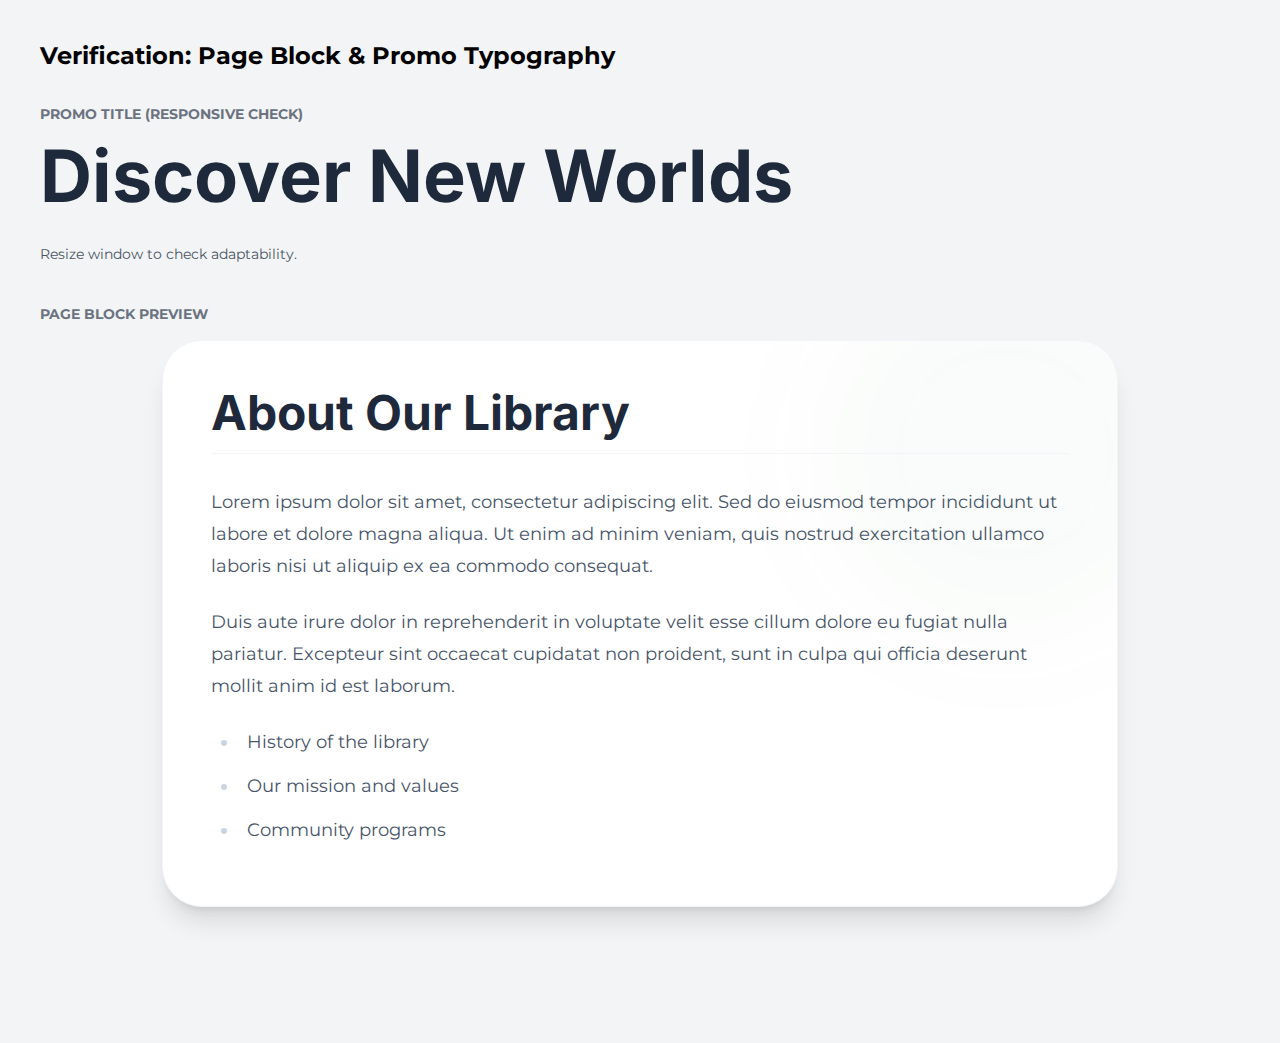
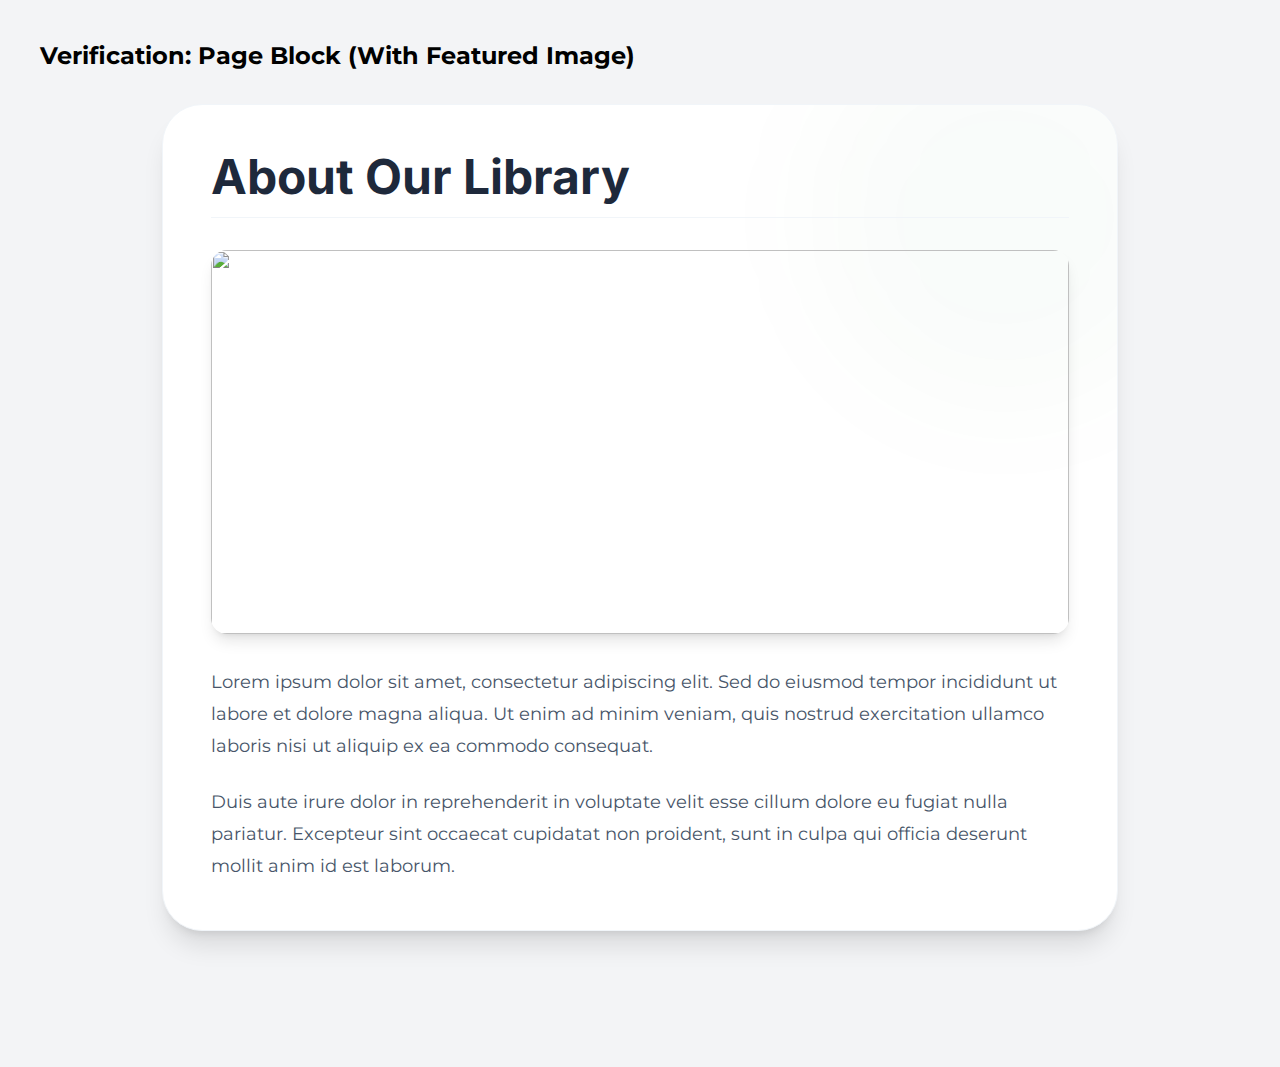
Refactor page template and add featured image support to Page Block
- Created `template-parts/content-page.php` to modularize page content display.
- Refactored `page.php` to use the new template part.
- Updated `template-parts/section-page-block.php` to include Featured Image support, ensuring visual consistency between the homepage block and the actual page view.
- Ensured consistent "AAA" tier styling (rounded corners, shadows, decorative elements) across all page-related components.

diff --git a/verification/page_block_preview.html b/verification/page_block_preview.html
@@ -3,7 +3,7 @@
 <head>
     <meta charset="UTF-8">
     <meta name="viewport" content="width=device-width, initial-scale=1.0">
-    <title>Page Block Verification</title>
+    <title>Page Block Verification (Featured Image)</title>
     <script src="https://cdn.tailwindcss.com?plugins=forms,typography"></script>
     <link href="https://fonts.googleapis.com/css2?family=Inter:wght@300;400;500;600;700;800&family=Montserrat:wght@400;700&display=swap" rel="stylesheet">
     <script>
@@ -28,20 +28,7 @@
 </head>
 <body class="bg-gray-100 p-10">
 
-    <h1 class="text-2xl mb-8 font-bold">Verification: Page Block & Promo Typography</h1>
-
-    <!-- Mock Promo Typography -->
-    <div class="mb-10">
-        <h3 class="mb-4 text-sm font-bold uppercase text-gray-500">Promo Title (Responsive Check)</h3>
-        <!-- text-4xl sm:text-5xl lg:text-7xl -->
-        <h2 class="text-4xl sm:text-5xl lg:text-7xl font-display font-bold text-slate-800 mb-8 leading-[1.1]">
-            Discover New Worlds
-        </h2>
-        <p class="text-sm text-gray-600">Resize window to check adaptability.</p>
-    </div>
-
-    <!-- Mock Page Block -->
-    <h3 class="mb-4 text-sm font-bold uppercase text-gray-500">Page Block Preview</h3>
+    <h1 class="text-2xl mb-8 font-bold">Verification: Page Block (With Featured Image)</h1>
 
     <!-- Rendered Page Block -->
     <section class="mb-24 w-full max-w-[95%] sm:max-w-[90%] xl:max-w-[85%] 2xl:max-w-[80%] mx-auto px-4 sm:px-6 lg:px-8">
@@ -50,19 +37,19 @@
              <!-- Decorative Blur -->
              <div class="absolute -top-20 -right-20 w-96 h-96 bg-primary/5 rounded-full blur-3xl opacity-50 pointer-events-none"></div>
 
-             <div class="relative z-10">
-                <h2 class="text-3xl md:text-5xl font-display font-bold text-slate-800 mb-8 border-b border-slate-100 pb-4">
+             <div class="relative z-10 flex flex-col gap-8">
+                <h2 class="text-3xl md:text-5xl font-display font-bold text-slate-800 border-b border-slate-100 pb-4">
                     About Our Library
                 </h2>
+
+                <!-- Featured Image Mock -->
+                <div class="w-full h-64 md:h-96 rounded-2xl overflow-hidden shadow-lg relative">
+                    <img src="https://images.unsplash.com/photo-1507842217153-e212234687ad?auto=format&fit=crop&w=1200&q=80" class="w-full h-full object-cover">
+                </div>
 
                 <div class="prose prose-lg prose-slate max-w-none text-slate-600">
                     <p>Lorem ipsum dolor sit amet, consectetur adipiscing elit. Sed do eiusmod tempor incididunt ut labore et dolore magna aliqua. Ut enim ad minim veniam, quis nostrud exercitation ullamco laboris nisi ut aliquip ex ea commodo consequat.</p>
                     <p>Duis aute irure dolor in reprehenderit in voluptate velit esse cillum dolore eu fugiat nulla pariatur. Excepteur sint occaecat cupidatat non proident, sunt in culpa qui officia deserunt mollit anim id est laborum.</p>
-                    <ul>
-                        <li>History of the library</li>
-                        <li>Our mission and values</li>
-                        <li>Community programs</li>
-                    </ul>
                 </div>
              </div>
         </div>

diff --git a/wp-content/themes/city-library/page.php b/wp-content/themes/city-library/page.php
@@ -6,42 +6,7 @@
         <?php
         while (have_posts()) :
             the_post();
-            ?>
-            <article id="post-<?php the_ID(); ?>" <?php post_class('bg-white dark:bg-slate-900/50 p-8 md:p-12 rounded-[2rem] shadow-xl border border-slate-100 dark:border-slate-800 relative overflow-hidden'); ?>>
-
-                <!-- Decorative Background Blur -->
-                <div class="absolute top-0 right-0 -mr-20 -mt-20 w-96 h-96 bg-primary/5 rounded-full blur-3xl pointer-events-none"></div>
-
-                <div class="flex flex-col gap-8 relative z-10">
-
-                    <header class="entry-header mb-6 text-center">
-                        <?php the_title('<h1 class="entry-title text-3xl md:text-5xl font-bold font-display mb-4 text-slate-900 dark:text-white leading-tight">', '</h1>'); ?>
-                    </header>
-
-                    <!-- Featured Image (Full Width for Pages if exists) -->
-                    <?php if (has_post_thumbnail()) : ?>
-                        <div class="w-full h-64 md:h-96 rounded-2xl overflow-hidden shadow-lg relative mb-8">
-                            <?php the_post_thumbnail('full', ['class' => 'w-full h-full object-cover']); ?>
-                        </div>
-                    <?php endif; ?>
-
-                    <!-- Content -->
-                    <div class="entry-content prose prose-slate dark:prose-invert max-w-none prose-headings:font-display prose-headings:font-bold prose-a:text-primary hover:prose-a:text-primary/80 prose-img:rounded-xl prose-img:shadow-lg mx-auto">
-                        <?php
-                        the_content();
-
-                        wp_link_pages(array(
-                            'before' => '<div class="page-links">' . esc_html__('Pages:', 'city-library'),
-                            'after'  => '</div>',
-                        ));
-                        ?>
-                    </div>
-
-                </div>
-
-            </article>
-
-        <?php
+            get_template_part('template-parts/content', 'page');
         endwhile; // End of the loop.
         ?>
     </div>

diff --git a/wp-content/themes/city-library/template-parts/content-page.php b/wp-content/themes/city-library/template-parts/content-page.php
@@ -1,0 +1,39 @@
+<?php
+/**
+ * Template part for displaying page content in page.php
+ */
+?>
+
+<article id="post-<?php the_ID(); ?>" <?php post_class('bg-white dark:bg-slate-900/50 p-8 md:p-12 rounded-[2rem] shadow-xl border border-slate-100 dark:border-slate-800 relative overflow-hidden'); ?>>
+
+    <!-- Decorative Background Blur -->
+    <div class="absolute top-0 right-0 -mr-20 -mt-20 w-96 h-96 bg-primary/5 rounded-full blur-3xl pointer-events-none"></div>
+
+    <div class="flex flex-col gap-8 relative z-10">
+
+        <header class="entry-header mb-6 text-center">
+            <?php the_title('<h1 class="entry-title text-3xl md:text-5xl font-bold font-display mb-4 text-slate-900 dark:text-white leading-tight">', '</h1>'); ?>
+        </header>
+
+        <!-- Featured Image (Full Width for Pages if exists) -->
+        <?php if (has_post_thumbnail()) : ?>
+            <div class="w-full h-64 md:h-96 rounded-2xl overflow-hidden shadow-lg relative mb-8">
+                <?php the_post_thumbnail('full', ['class' => 'w-full h-full object-cover']); ?>
+            </div>
+        <?php endif; ?>
+
+        <!-- Content -->
+        <div class="entry-content prose prose-slate dark:prose-invert max-w-none prose-headings:font-display prose-headings:font-bold prose-a:text-primary hover:prose-a:text-primary/80 prose-img:rounded-xl prose-img:shadow-lg mx-auto">
+            <?php
+            the_content();
+
+            wp_link_pages(array(
+                'before' => '<div class="page-links">' . esc_html__('Pages:', 'city-library'),
+                'after'  => '</div>',
+            ));
+            ?>
+        </div>
+
+    </div>
+
+</article>

diff --git a/wp-content/themes/city-library/template-parts/section-page-block.php b/wp-content/themes/city-library/template-parts/section-page-block.php
@@ -26,10 +26,17 @@ $content = apply_filters('the_content', $post->post_content);
          <!-- Decorative Blur -->
          <div class="absolute -top-20 -right-20 w-96 h-96 bg-primary/5 rounded-full blur-3xl opacity-50 pointer-events-none"></div>
 
-         <div class="relative z-10">
-            <h2 class="text-3xl md:text-5xl font-display font-bold text-slate-800 dark:text-white mb-8 border-b border-slate-100 dark:border-slate-700 pb-4">
+         <div class="relative z-10 flex flex-col gap-8">
+            <h2 class="text-3xl md:text-5xl font-display font-bold text-slate-800 dark:text-white border-b border-slate-100 dark:border-slate-700 pb-4">
                 <?php echo esc_html($title); ?>
             </h2>
+
+            <!-- Featured Image -->
+            <?php if (has_post_thumbnail($page_id)) : ?>
+                <div class="w-full h-64 md:h-96 rounded-2xl overflow-hidden shadow-lg relative">
+                    <?php echo get_the_post_thumbnail($page_id, 'full', ['class' => 'w-full h-full object-cover']); ?>
+                </div>
+            <?php endif; ?>
 
             <div class="prose prose-lg prose-slate dark:prose-invert max-w-none text-slate-600 dark:text-slate-300">
                 <?php echo $content; ?>
